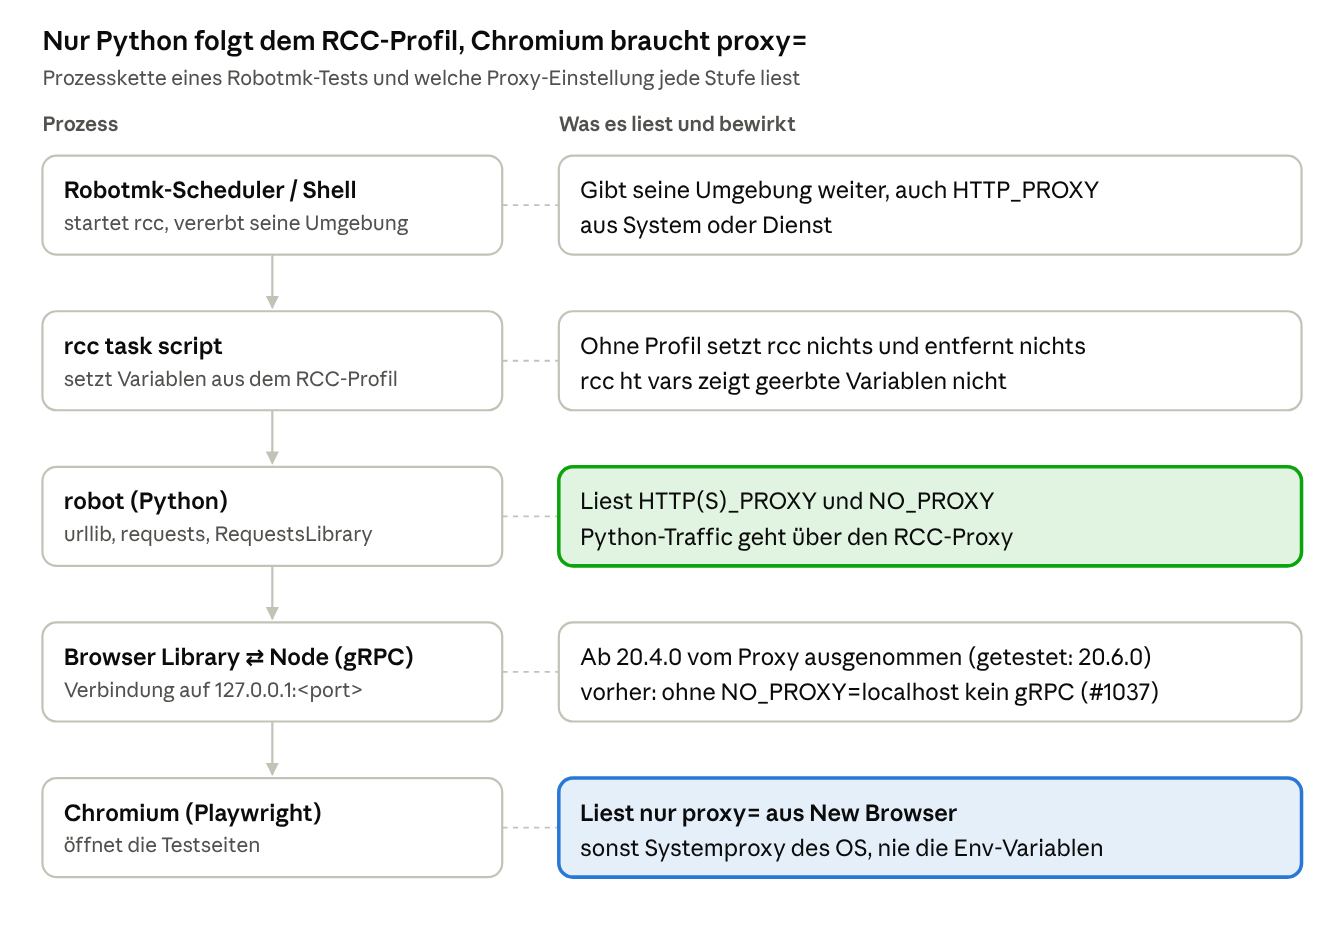
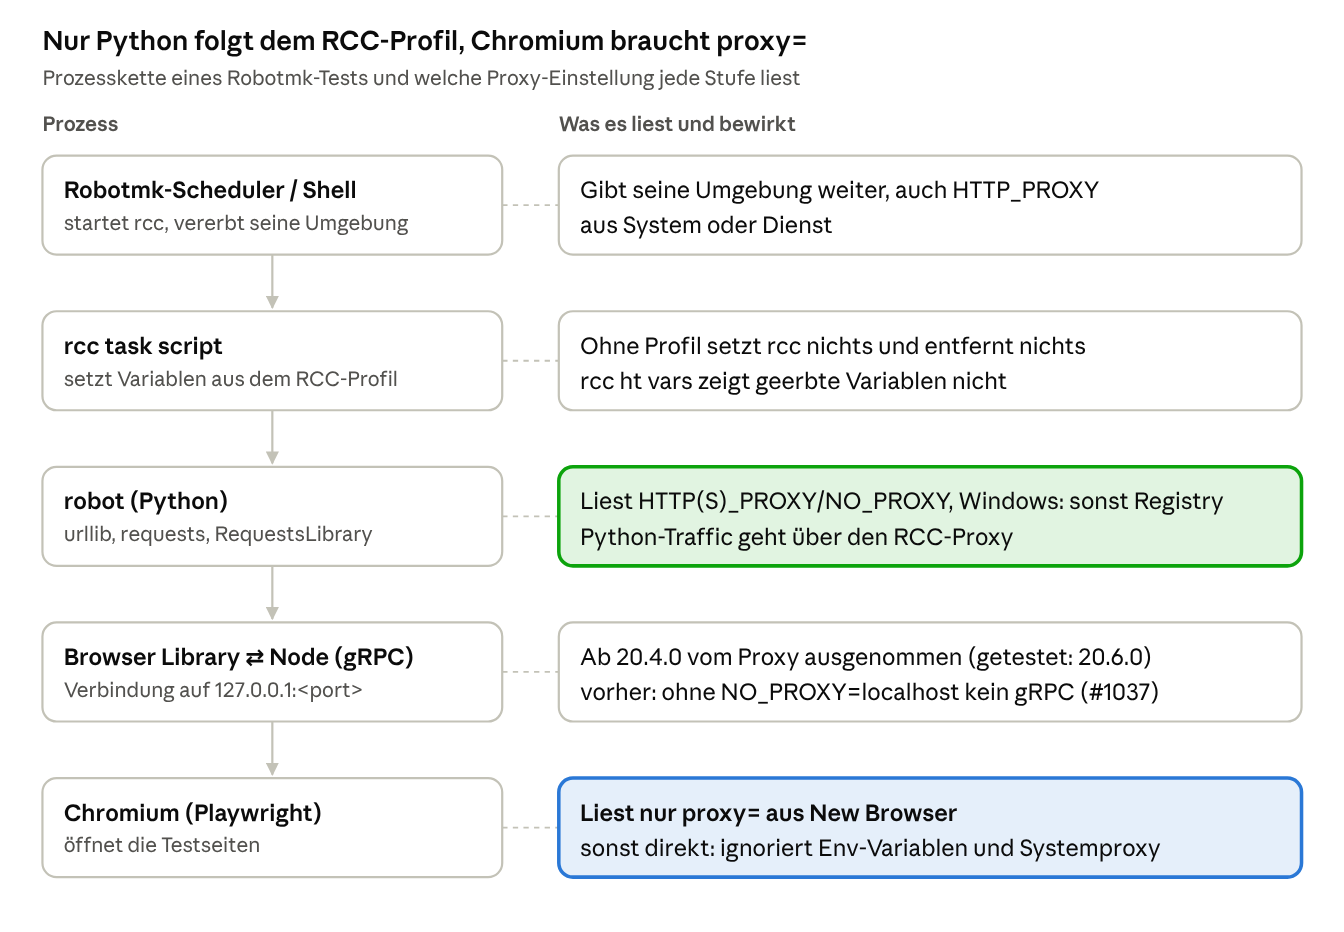
briefing

Changed region(s): [[0.4688, 0.9024, 0.875, 0.9335], [0.5938, 0.529, 0.9062, 0.5601]]

diff --git a/README.md b/README.md
@@ -93,10 +93,19 @@ Alle Szenarien mit Browser Library 20.6.0:
 | 4 | nein | – | Proxy B | PASS |
 | 5 (`--fail`) | ja | **fehlt** | ohne `proxy` | PASS (vor 20.4.0: FAIL) |
 
-## Ergebnisse macOS (kein System-Proxy aktiv)
+## Ergebnisse
 
-Alle vier Läufe (`env`, `rcc`, `env-auth`, `rcc-auth`, jeweils mit `--fail`) mit Browser Library 20.6.0:
-20 von 20 Szenarien PASS. `env` und `rcc` liefern identische Zusammenfassungen, ebenso `env-auth` und `rcc-auth`.
+Browser Library 20.6.0 (Playwright 1.63), rcc v17.29.1. Neun Läufe mit je fünf Szenarien (`--fail`), 45 von 45 PASS:
+
+| Plattform | Läufe |
+|---|---|
+| macOS, kein System-Proxy | `profile`, `env`, `profile-auth`, `env-auth` |
+| Windows Server 2022 (Administrator), kein System-Proxy | `windows-profile`, `windows-env`, `windows-profile-auth`, `windows-env-auth` |
+| Windows Server 2022, WinINET-Proxy → Proxy A | `windows-profile-sysproxy` |
+
+### Ohne System-Proxy (macOS und Windows identisch)
+
+`profile` und `env` liefern identische Zusammenfassungen, ebenso `profile-auth` und `env-auth`, auf beiden Plattformen.
 
 | # | Proxy A | `NO_PROXY` | `New Browser` | Env im Test | Python-Request | Browser-Traffic |
 |---|---|---|---|---|---|---|
@@ -109,6 +118,9 @@ Alle vier Läufe (`env`, `rcc`, `env-auth`, `rcc-auth`, jeweils mit `--fail`) mi
 Mit `--auth`: identische Wege. Python schickt die Zugangsdaten aus der Proxy-URL gleich mit (0× 407 an Proxy A),
 Chromium bekommt beim ersten Request an Proxy B einmal 407 und authentifiziert sich dann mit `username`/`password`.
 
+`htvars.txt` (`rcc ht vars` mit derselben Umgebung wie der Test) enthält die Proxy-Variablen nur in den
+`profile`-Läufen, in den `env`-Läufen nicht, obwohl sie dort im Test ankommen (siehe Erkenntnis 5).
+
 Die Logs zeigen z. B. für Szenario 2:
 
 ```text
@@ -116,25 +128,22 @@ Proxy A:  http://example.com/?via=python-urllib
 Proxy B:  http://example.com/  http://example.com/s.js  https://example.org/  https://example.org/s.js
 ```
 
-## Ergebnisse Windows (Windows Server 2022, rcc v17.29.1, kein System-Proxy aktiv)
+### Windows mit System-Proxy (`windows-profile-sysproxy`)
 
-`run_scenarios.ps1` als Administrator. Laut Zusammenfassung: WinINET (HKCU) `ProxyEnable=0`, kein `ProxyServer`,
-keine `AutoConfigURL`; WinHTTP `Direct access`. Ergebnisse unter `results/windows-*`.
+WinINET (HKCU): `ProxyEnable=1`, `ProxyServer=localhost:3128`, Ausnahme `<local>`.
 
-| Lauf | Szenarien | Ergebnis |
-|---|---|---|
-| `windows-rcc-auth` (`-Rcc -Auth -Fail`) | 1–5 | 5 von 5 PASS |
-| `windows-env` (`-Fail`) | 2–5 | PASS |
-| `windows-env` | 1 | kein gültiges Ergebnis (siehe unten) |
+| # | Proxy A (Profil) | `New Browser` | Python-Request | Browser-Traffic |
+|---|---|---|---|---|
+| 1 | ja | ohne `proxy` | Proxy A | **direkt** |
+| 2 | ja | Proxy B | Proxy A | Proxy B |
+| 3 | nein | ohne `proxy` | **Proxy A** (Registry) | **direkt** |
+| 4 | nein | Proxy B | **Proxy A** (Registry) | Proxy B |
+| 5 | ja, ohne `NO_PROXY` | ohne `proxy` | Proxy A | **direkt** |
 
-Die Wege sind dieselben wie unter macOS: Der Python-Request geht über Proxy A, der Browser ohne `proxy=` direkt
-und mit `proxy=` über Proxy B. Szenario 5 läuft ohne `NO_PROXY` durch. Auch die Authentifizierung verhält sich
-gleich: 0× 407 an Proxy A, 1× 407 an Proxy B, danach meldet sich Chromium mit `username`/`password` an.
-
-Szenario 1 im Lauf `windows-env` wurde nach 5 s abgebrochen. Damals band PowerShell bei `-Fail 5` die `5` an
-`-Timeout`; das ist inzwischen behoben (`PositionalBinding = $false`). Bis zu diesem Abbruch ging der Python-Request
-über Proxy A. Den Weg des Browsers in Szenario 1 belegt der Lauf `windows-rcc-auth`. Ein vollständiger
-`windows-env`-Lauf und die Läufe `windows-rcc` und `windows-env-auth` stehen noch aus.
+Der System-Proxy war wirksam: Python ging in Szenario 3 und 4 ohne Profil und ohne Variablen über Proxy A, und im
+Log von Proxy A erscheint auch Traffic anderer Programme des Benutzers (VS Code). Chromium (`headless=True`) ging
+trotzdem direkt. Playwright setzt ohne `proxy=` kein Proxy-Flag; warum Chromium den WinINET-Proxy nicht nutzt,
+ist nicht geklärt (Vermutung: headless shell, nicht geprüft).
 
 ## Erkenntnisse
 
@@ -143,9 +152,9 @@ Szenario 1 im Lauf `windows-env` wurde nach 5 s abgebrochen. Damals band PowerSh
    Das RCC-Profil wirkt ausschließlich über diese Variablen: Mit denselben Variablen ohne rcc ist das Verhalten
    identisch (`results/env` = `results/profile`).
 2. **Der Browser ignoriert diese Variablen.** Playwright gibt Chromium nur dann `--proxy-server=…` mit,
-   wenn `New Browser` einen `proxy` bekommt. Ohne `proxy` verwendet Chromium die
-   **System-Proxy-Einstellungen des Betriebssystems**, nicht die Env-Variablen.
-3. **`proxy` in `New Browser` hat immer Vorrang**, egal was im RCC-Profil steht (Szenario 2 = Szenario 4).
+   wenn `New Browser` einen `proxy` bekommt. Ohne `proxy` ging Chromium in allen Messungen direkt, unter
+   Windows auch bei gesetztem WinINET-Proxy (gemessen mit `headless=True`).
+3. **`proxy` in `New Browser` hat immer Vorrang**, egal was im RCC-Profil oder im System steht (Szenario 2 = Szenario 4).
    Zugangsdaten gehören dort in `username`/`password`.
 4. Der RCC-Proxy wirkt beim Browser nur indirekt: beim **Bauen des Environments** (conda/pip-Downloads,
    `rfbrowser init` lädt Node-Pakete und Browser-Binaries über den Proxy).
@@ -180,15 +189,9 @@ mindestens `localhost,127.0.0.1` pflegen.
 
 ## Einschränkung / Plattformunterschiede
 
-Ohne `proxy`-Argument folgt Chromium dem System:
-
-- **Windows** (typischer Robotmk-Host): WinINET-Proxyeinstellungen des ausführenden Benutzers.
-  Ist dort ein Proxy (oder PAC/WPAD) konfiguriert, geht der Browser darüber, unabhängig von RCC.
-  Läuft der Scheduler als SYSTEM, gelten dessen Einstellungen. Python-`urllib` liest unter Windows ohne
-  Env-Variablen ebenfalls die Registry-Einstellungen.
-- **Linux** ohne Desktop-Umgebung: Chromium liest `http_proxy`/`https_proxy` aus der Umgebung. Dort *könnte*
-  der RCC-Proxy also auch ohne `proxy`-Argument greifen. Das ist ein weiterer Grund, `proxy` explizit zu setzen.
-
-Unter macOS und Windows wurde jeweils **ohne** System-Proxy gemessen; dort geht der Browser ohne `proxy=` direkt.
-Noch nicht gemessen: ein Windows-Host mit gesetztem WinINET-Proxy oder PAC-Datei und ein Scheduler, der als SYSTEM
-läuft.
+- Gemessen als normaler Benutzer bzw. Administrator, nicht als SYSTEM. WinINET-Einstellungen gelten pro Benutzer;
+  läuft der Robotmk-Scheduler als SYSTEM, gelten dessen Einstellungen (für Python relevant, siehe oben).
+- Der System-Proxy-Lauf nutzt `headless=True`. Ob ein sichtbarer Browser (`headless=False`) oder `channel=chrome`
+  dem WinINET-Proxy folgt, ist nicht gemessen. PAC-Dateien ebenfalls nicht.
+- **Linux** ohne Desktop-Umgebung: Chromium liest dort möglicherweise `http_proxy`/`https_proxy` aus der Umgebung.
+  Nicht gemessen; ein weiterer Grund, `proxy` explizit zu setzen.
